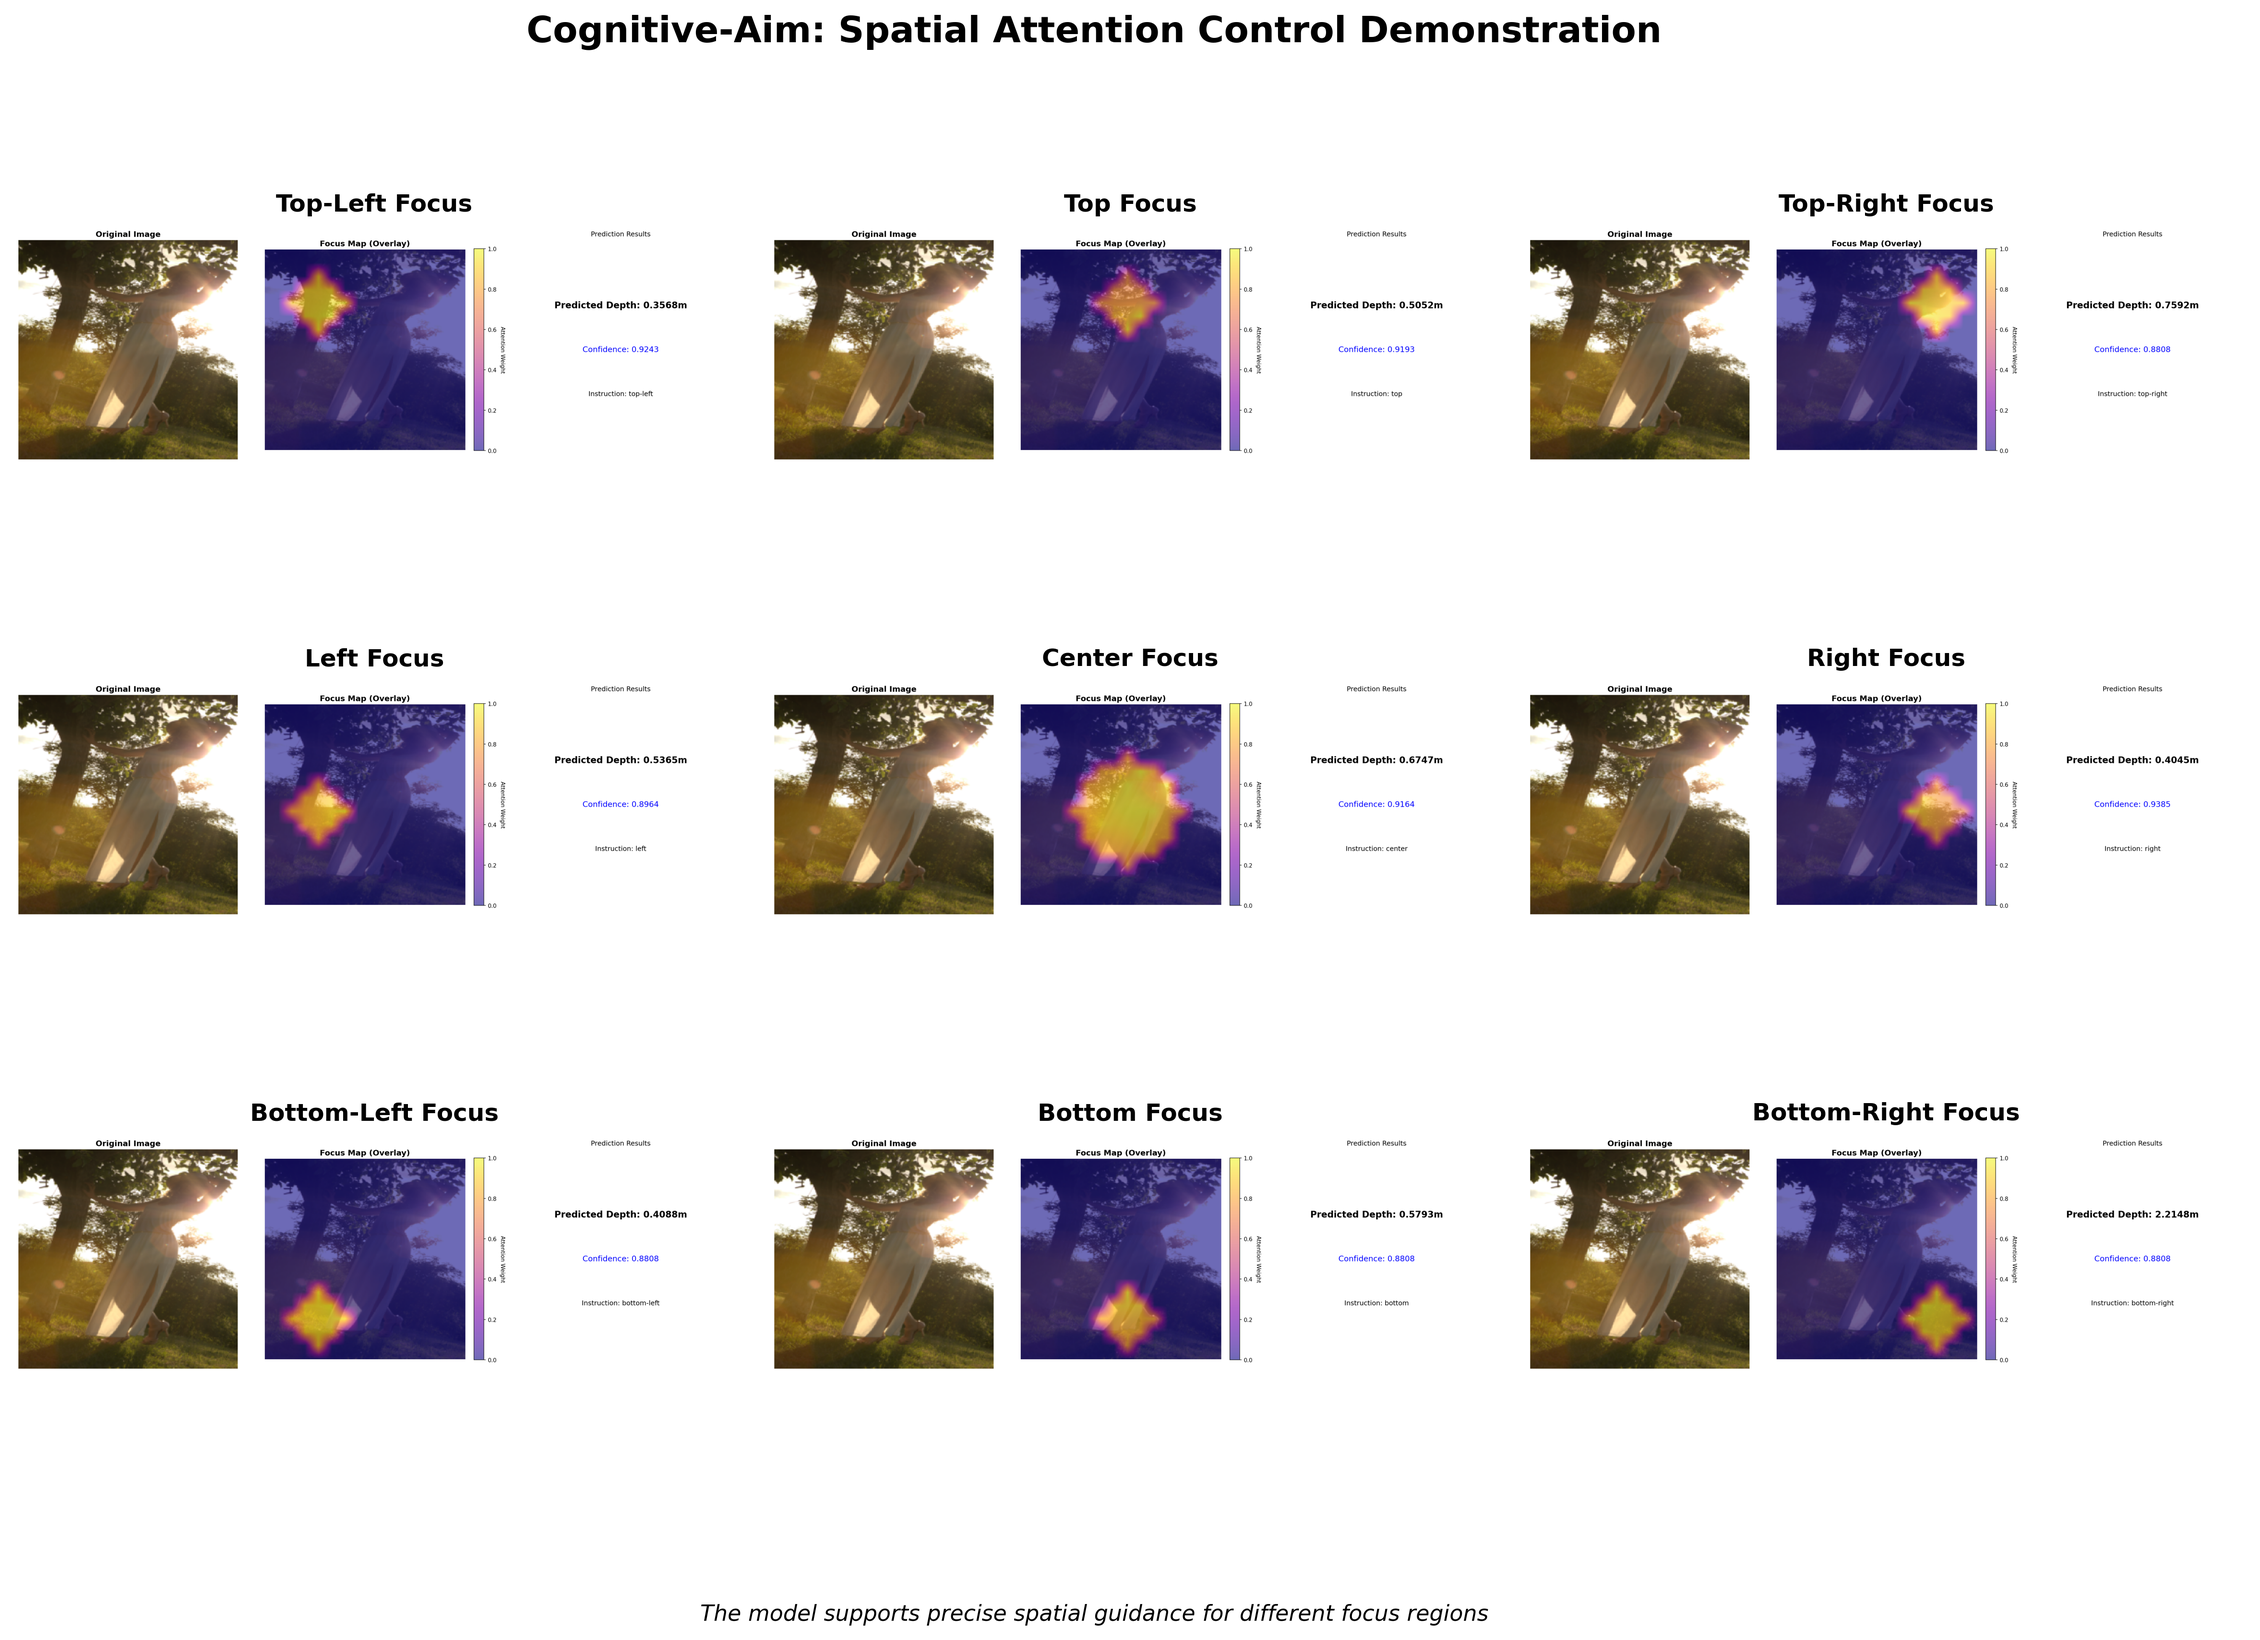
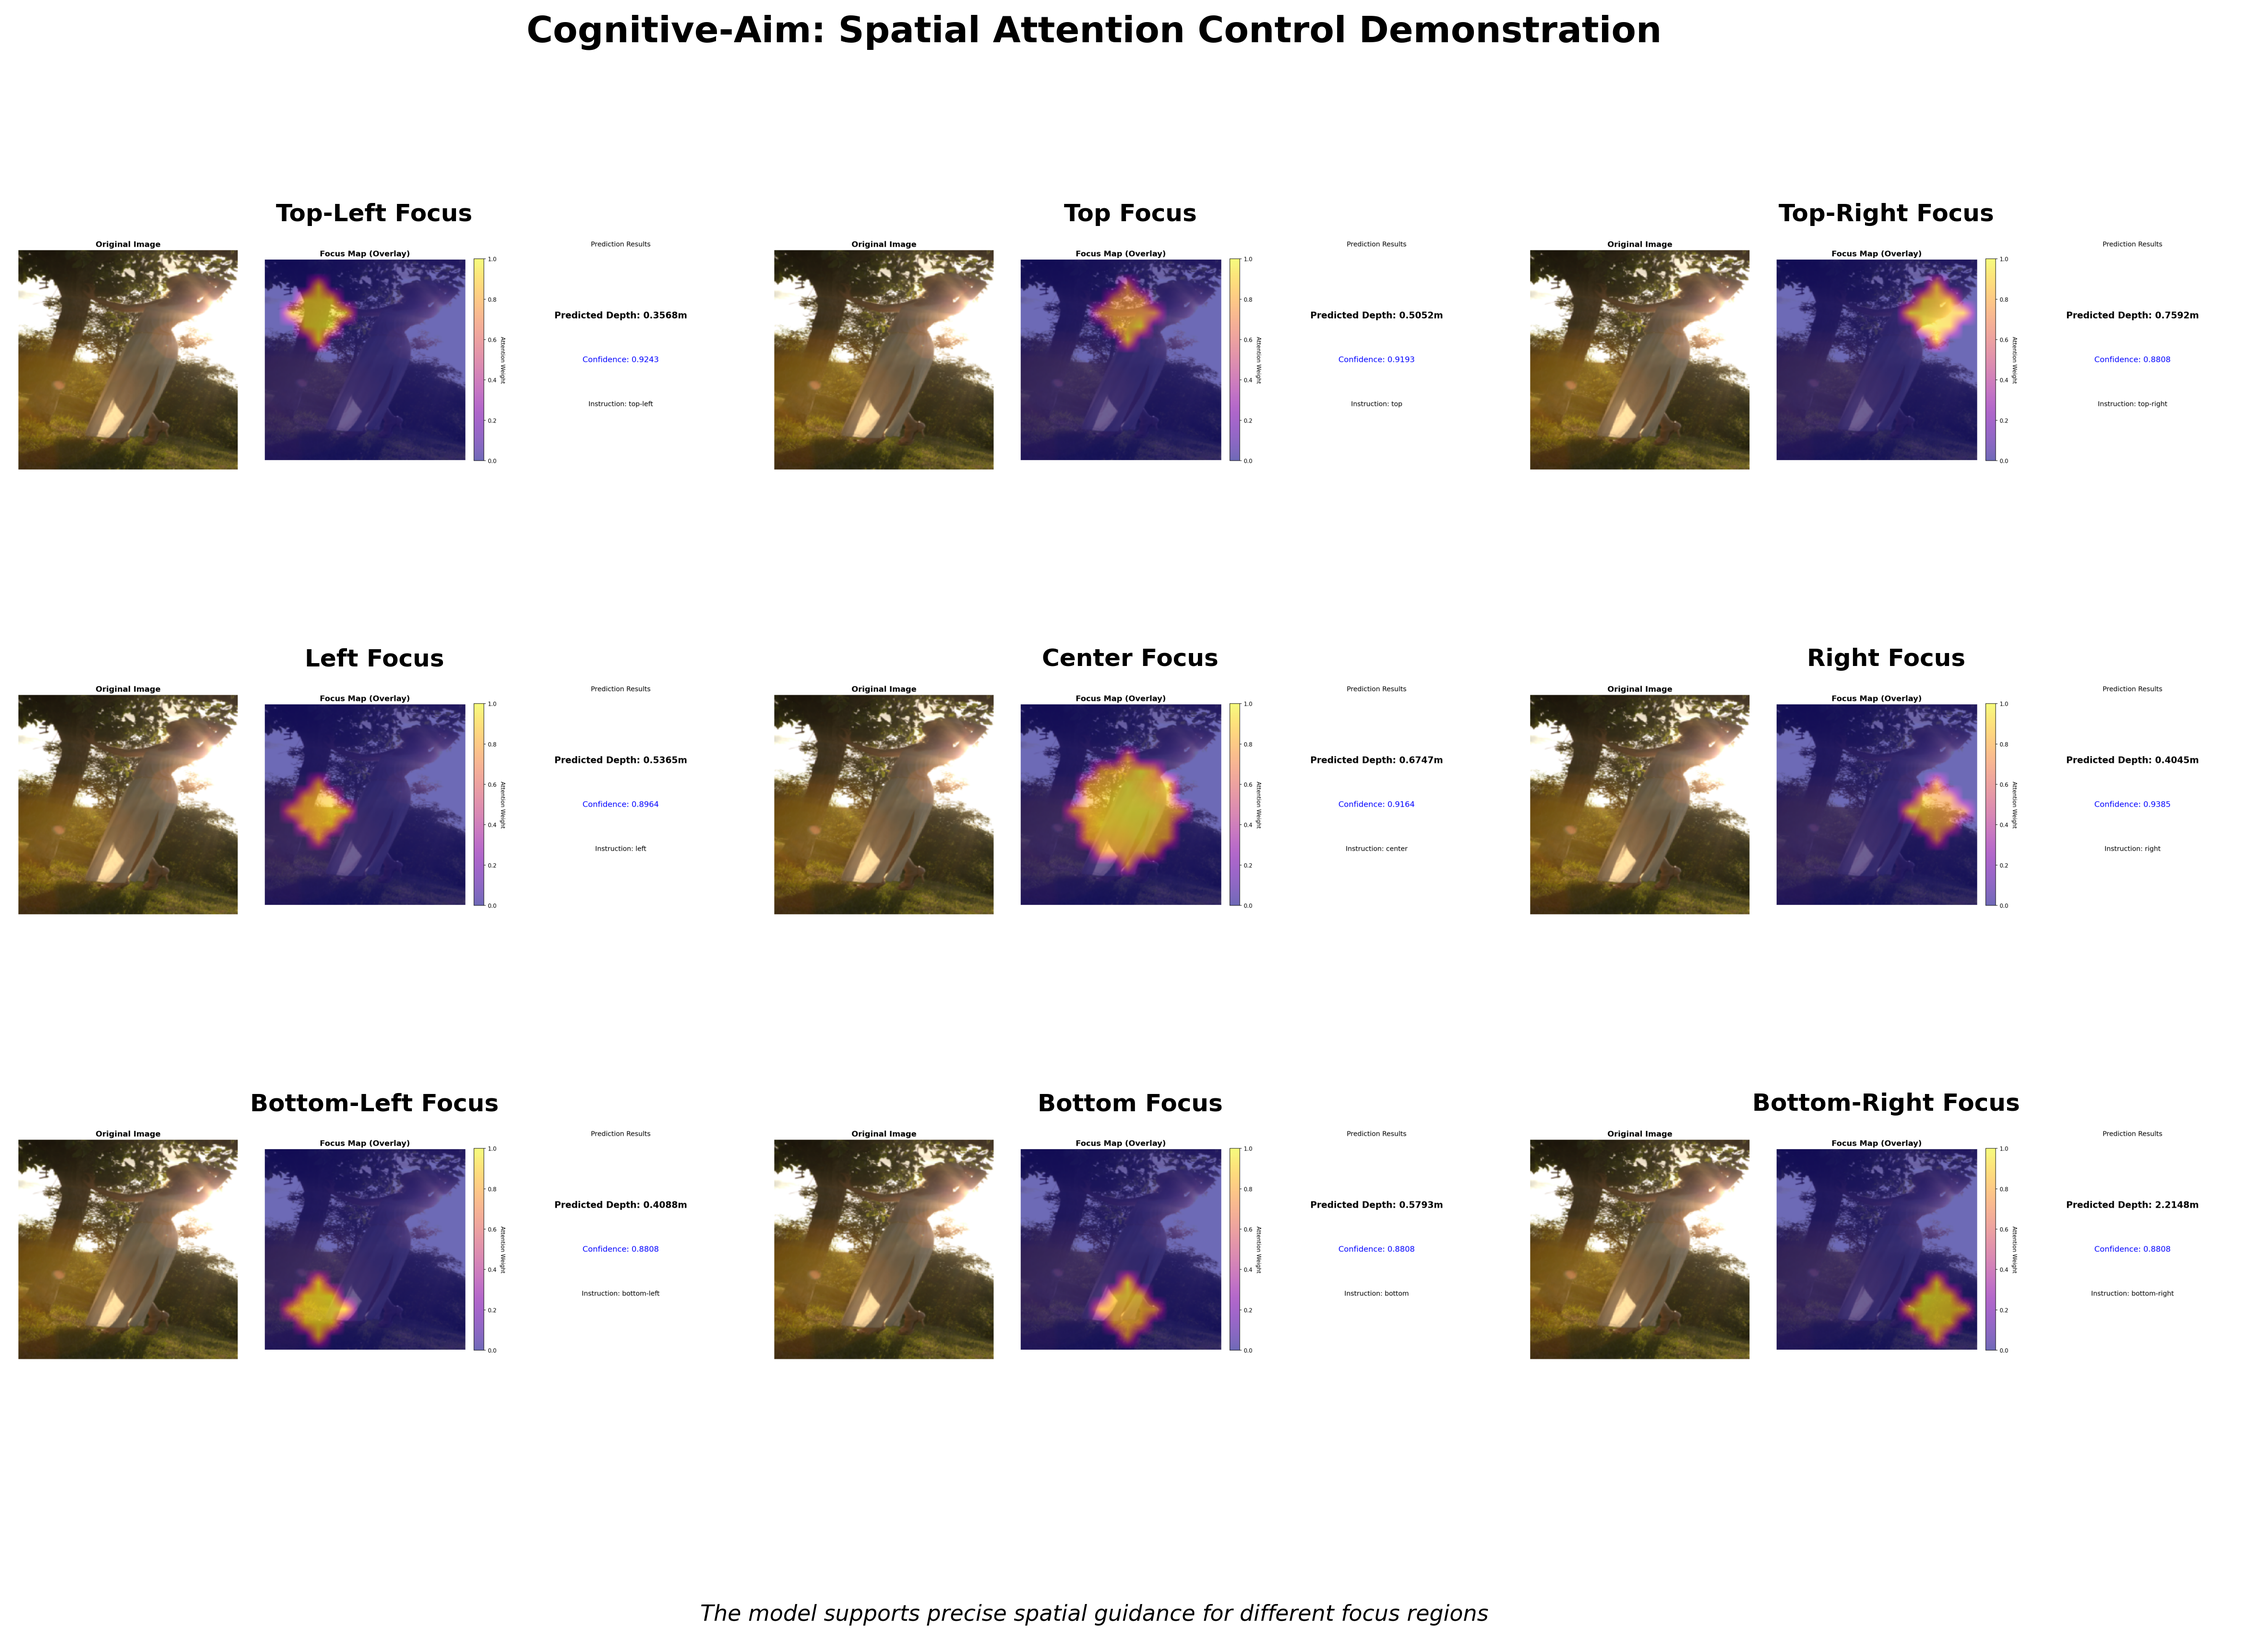
Optimize nine-grid layout: reduce row spacing to 0.02 for more compact display

diff --git a/create_nine_grid_demo.py b/create_nine_grid_demo.py
@@ -2,6 +2,7 @@
 """
 创建九宫格空间引导效果展示图
 使用demo.py生成的9个方向的推理结果进行合成
+采用3行布局，每行3个长方形图像
 """
 
 import os
@@ -14,27 +15,27 @@ import argparse
 
 def create_nine_grid_layout(demo_results_dir: str, output_path: str):
     """
-    创建3x3九宫格布局的空间引导效果图
+    创建3行x3列布局的空间引导效果图
     
     Args:
         demo_results_dir: demo_results目录路径
         output_path: 输出图像路径
     """
     
-    # 九个方向的顺序 (3x3布局)
+    # 九个方向的顺序 (3行x3列布局)
     directions = [
         ['top-left', 'top', 'top-right'],
         ['left', 'center', 'right'], 
         ['bottom-left', 'bottom', 'bottom-right']
     ]
     
-    # 创建图形 - 增大尺寸，减小间距
-    fig = plt.figure(figsize=(18, 18))
-    gs = GridSpec(3, 3, figure=fig, hspace=0.15, wspace=0.15)
+    # 创建图形 - 适应长方形图像的比例
+    fig = plt.figure(figsize=(20, 12))
+    gs = GridSpec(3, 3, figure=fig, hspace=0.01, wspace=0.05)
     
     # 设置整体标题
     fig.suptitle('Cognitive-Aim: Spatial Attention Control Demonstration', 
-                 fontsize=20, fontweight='bold', y=0.95)
+                 fontsize=18, fontweight='bold', y=0.95)
     
     for row in range(3):
         for col in range(3):
@@ -57,7 +58,7 @@ def create_nine_grid_layout(demo_results_dir: str, output_path: str):
             # 显示预测图像
             ax.imshow(pred_img)
             ax.set_title(f'{direction.replace("-", "-").title()} Focus', 
-                        fontsize=14, fontweight='bold', pad=10)
+                        fontsize=12, fontweight='bold', pad=8)
             ax.axis('off')
             
             # 添加边框突出显示
@@ -77,7 +78,7 @@ def create_nine_grid_layout(demo_results_dir: str, output_path: str):
     # 添加说明文字
     fig.text(0.5, 0.02, 
              'The model supports precise spatial guidance for different focus regions',
-             ha='center', fontsize=12, style='italic')
+             ha='center', fontsize=11, style='italic')
     
     # 保存图像
     plt.savefig(output_path, dpi=300, bbox_inches='tight', 
